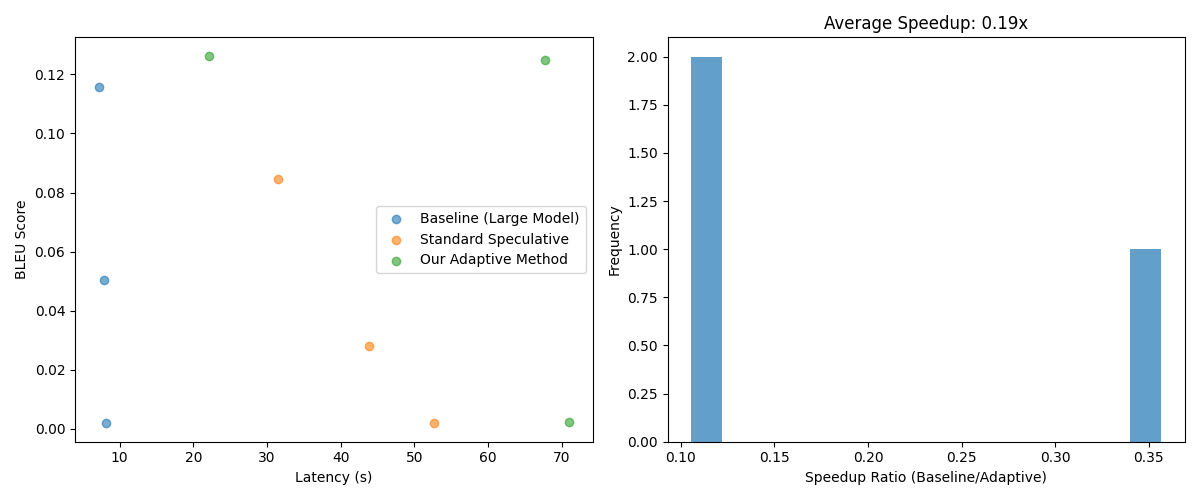
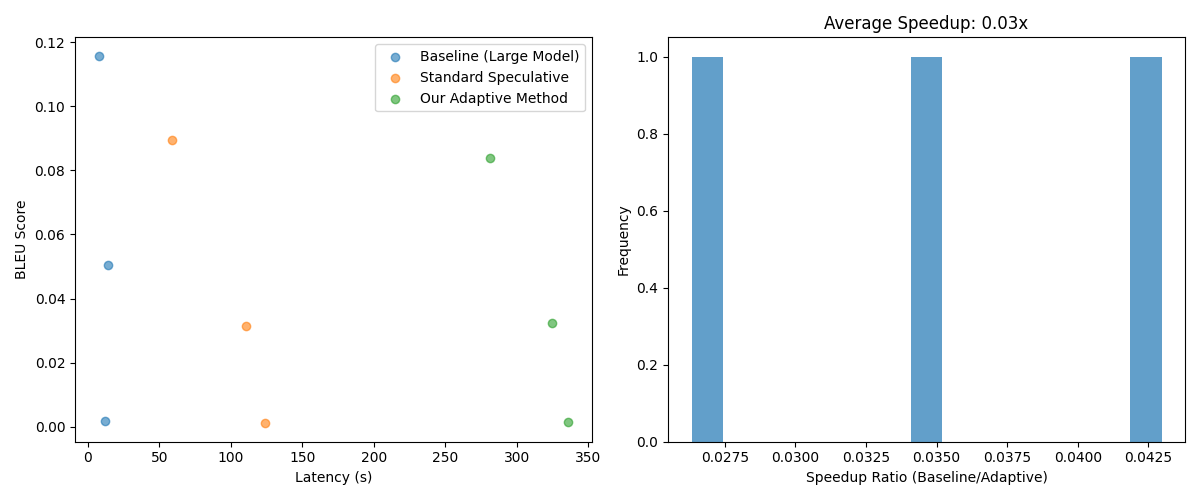
change and add base

diff --git a/new.py b/new.py
@@ -12,7 +12,7 @@ from speculative_decoder import SpeculativeDecoder
 class Benchmark:
     """基准方法：直接使用大模型生成"""
 
-    def __init__(self, model: str = "gpt2-medium"):
+    def __init__(self, model: str = "gpt2-xl"):
         self.device = "cuda" if torch.cuda.is_available() else "cpu"
         self.model = AutoModelForCausalLM.from_pretrained(model).to(self.device)
         self.tokenizer = AutoTokenizer.from_pretrained(model)
@@ -29,7 +29,7 @@ class AdaptiveSpeculativeDecoder:
     """基于输入复杂度动态调整的自适应投机推理框架"""
 
     def __init__(self,
-                 large_model: str = "gpt2-medium",  # 大模型（验证模型）
+                 large_model: str = "gpt2-xl",  # 大模型（验证模型）
                  draft_pool: List[str] = ["gpt2", "gpt2-medium"],  # Draft模型池
                  device: str = "cuda" if torch.cuda.is_available() else "cpu"):
 
@@ -53,7 +53,7 @@ class AdaptiveSpeculativeDecoder:
         self.complexity_thresholds = {
             'low': {'model': 'gpt2', 'gamma': 5},
             'medium': {'model': 'gpt2-medium', 'gamma': 3},
-            'high': {'model': 'gpt2-medium', 'gamma': 1}
+            'high': {'model': 'gpt2', 'gamma': 1}
         }
 
     def _evaluate_complexity(self, input_ids: torch.Tensor) -> str:
@@ -83,6 +83,7 @@ class AdaptiveSpeculativeDecoder:
 
         # 选择Draft模型
         draft_model = self.draft_models[config['model']]
+        # print(draft_model)
         gamma = config['gamma']
 
         # 生成候选

diff --git a/speculative_decoder.py b/speculative_decoder.py
@@ -50,7 +50,7 @@ class SpeculativeDecoder:
     """标准投机解码实现（小模型起草 + 大模型验证）"""
 
     def __init__(self,
-                 large_model: str = "gpt2-medium",
+                 large_model: str = "gpt2-xl",
                  draft_model: str = "gpt2",
                  gamma: int = 5,  # 最大候选长度
                  device: str = "cuda" if torch.cuda.is_available() else "cpu"):
